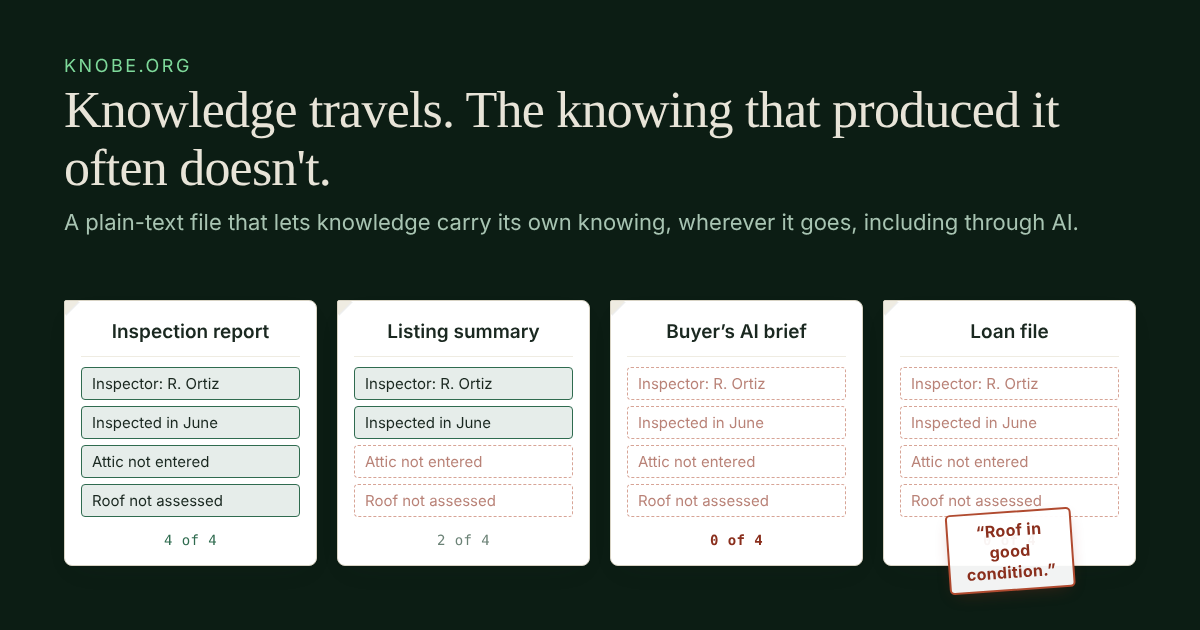
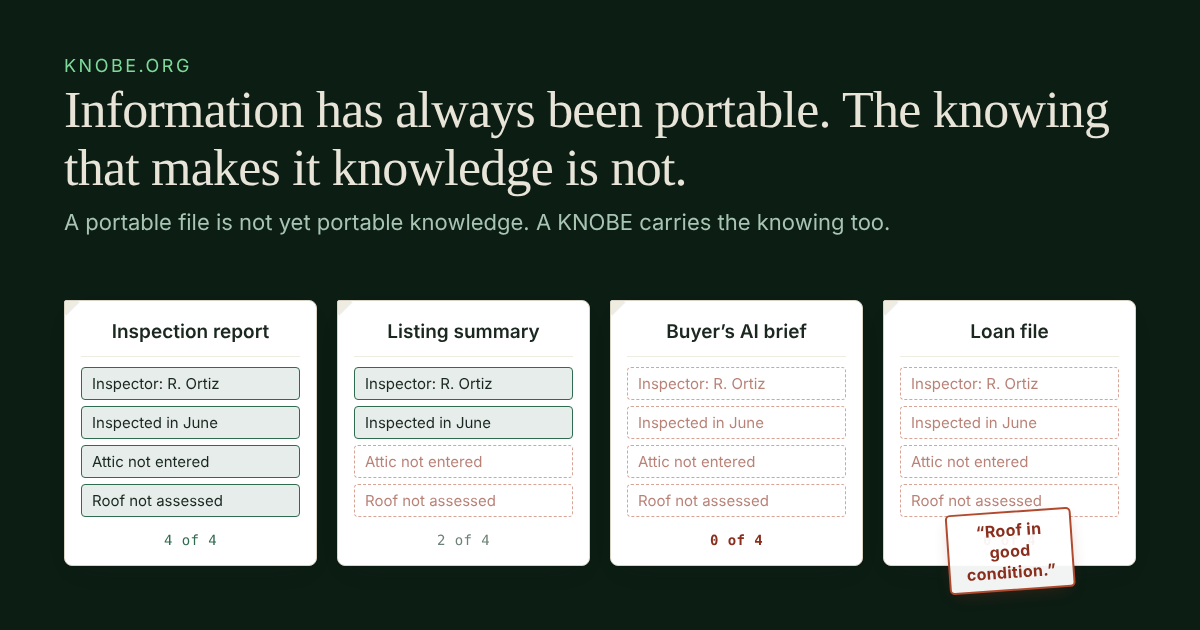
Portability-first hero: information has always been portable, the knowing has not
Front-door H1 and lede rebuilt on David's two-beat structure: the format's
portability credentials first, then the turn that a portable file is not yet
portable knowledge. /build lede gets the same beat; share cards resynced.

Claude-Session: https://claude.ai/code/session_01DtjeGfW8HtYfQZWe1ngs6u

Changed region(s): [[0.0617, 0.1206, 0.925, 0.2413], [0.0617, 0.3317, 0.8942, 0.3921], [0.0617, 0.2413, 0.5858, 0.3016]]

diff --git a/site/build.html b/site/build.html
@@ -50,7 +50,7 @@
     <div class="eyebrow">I build</div>
     <h1>A file format, a seal, a verifier. That is the whole surface.</h1>
     <!-- DAVID: framing paragraph drafted by Claude; edit freely -->
-    <p class="lede">A <code>.knobe.md</code> is Markdown with YAML frontmatter and a base64 JSON payload at the end. The payload records attribution, transformation history, fidelity limits, use conditions and accessibility lineage, and carries a SHA-256 hash of itself. One engine, <code>knobe-core.js</code>, creates, verifies and transforms these files; everything else is a thin adapter over it. The MCP server gives any agent five tools. The spec is frozen at v1.0 and nine test vectors cover the conformance surface. You can be sealing files before you have read any of it.</p>
+    <p class="lede">A <code>.knobe.md</code> is as portable as any Markdown file: plain text, interoperable, human- and machine-readable, accessible by construction. What is new is what travels inside it: a base64 JSON payload at the end of the file. The payload records attribution, transformation history, fidelity limits, use conditions and accessibility lineage, and carries a SHA-256 hash of itself. One engine, <code>knobe-core.js</code>, creates, verifies and transforms these files; everything else is a thin adapter over it. The MCP server gives any agent five tools. The spec is frozen at v1.0 and nine test vectors cover the conformance surface. You can be sealing files before you have read any of it.</p>
     <div class="cta-row"><a class="btn btn-primary" href="/agent">Add KNOBE to your agent</a></div>
   </div>
 </header>

diff --git a/site/index.html b/site/index.html
@@ -69,8 +69,8 @@
 <header class="hero">
   <div class="wrap">
     <div class="eyebrow">Open protocol · Plain text · Verifies in your browser</div>
-    <h1>Knowledge travels. The knowing that produced it often doesn't.</h1>
-    <p class="lede">When a transcript, a lesson or an AI summary moves from one place to another, the facts arrive. Who made it, under what terms, with what limits, and where judgment entered usually do not. KNOBE is a plain-text file format that lets knowledge carry its own knowing wherever it goes, including through AI.</p>
+    <h1>Information has always been portable. The knowing that makes it knowledge is not.</h1>
+    <p class="lede">A <code>.knobe.md</code> is a plain-text file: portable, interoperable, readable by people, machines and screen readers. But a portable file is not yet portable knowledge. A KNOBE also carries the knowing, who made it, under what terms, with what limits, so what arrives downstream, for a person or an AI, is knowledge rather than loose content.</p>
     <p class="equation" aria-label="known plus knowing equals knowledge"><span class="k">known</span><span class="op">+</span><span class="k">knowing</span><span class="op">=</span>knowledge</p>
     <div class="cta-row">
       <a class="btn btn-primary" href="#see">See it happen</a>
